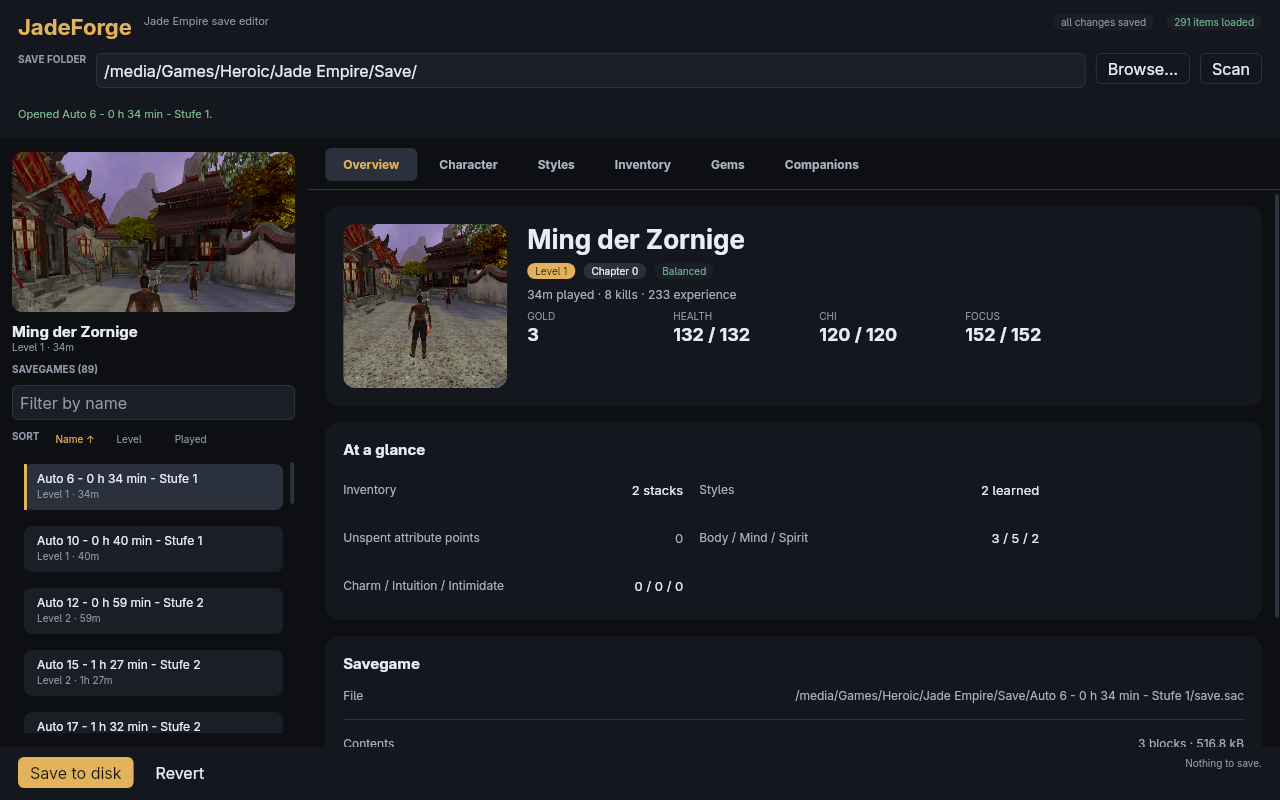
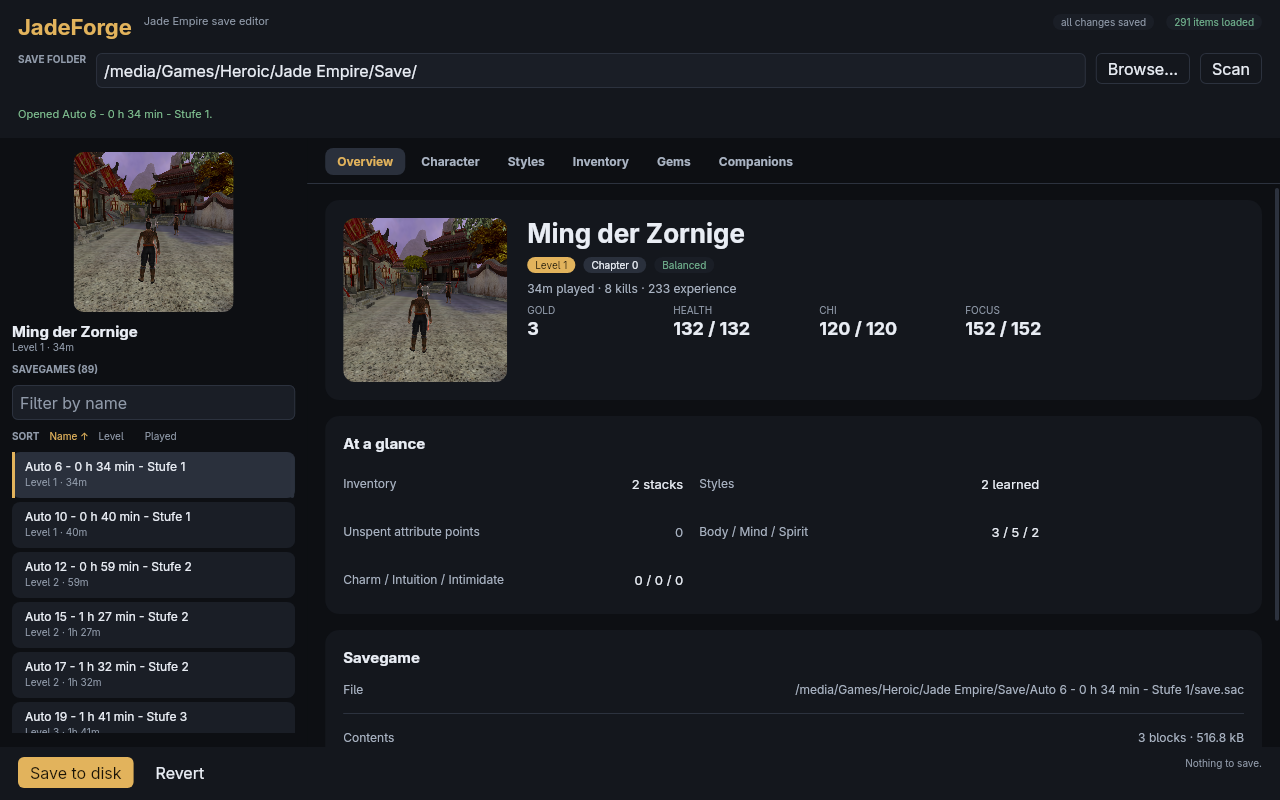
fix(ui): keep list rows compact and save previews fixed
- give the expanding name block flex width so item/style controls stay in the row
- use a fixed 160x160, aspect-preserving save preview instead of a cropped/resizing image
- add a compact style-row regression test and refresh screenshots/docs

diff --git a/crates/jadeforge-gui/tests/ui.rs b/crates/jadeforge-gui/tests/ui.rs
@@ -308,10 +308,12 @@ fn opening_a_save_does_not_move_the_sidebar() {
         "the savegame row text moved by {} px when it was selected",
         row_after - row_before
     );
+    let image_area = image.layout().area;
     assert!(
-        image.layout().area.size.height <= 160.5,
-        "the screenshot is {} px tall and outgrew its slot",
-        image.layout().area.size.height
+        image_area.size.height <= 160.5 && (image_area.size.width - 160.0).abs() < 0.5,
+        "the screenshot is {}x{} px; it must stay a fixed 160x160 square",
+        image_area.size.width,
+        image_area.size.height
     );
 }
 
@@ -597,6 +599,49 @@ fn every_list_is_browsable_and_labelled_the_same_way() {
         find_label_text(&test, " · #").is_some(),
         "items do not show the category and id subtitle"
     );
+}
+
+fn exact_label_nodes(test: &TestingRunner, wanted: &str) -> Vec<freya_testing::TestingNode> {
+    test.find_many(|node, element| {
+        let label = Label::try_downcast(element)?;
+        (label.text.as_ref() == wanted).then_some(node)
+    })
+}
+
+#[test]
+fn style_rows_stay_compact_and_inside_the_card() {
+    let Some(fixture) = Fixture::create() else {
+        eprintln!("skipping: no savegames found");
+        return;
+    };
+    let mut test = launch_sized(fixture.save_dir.clone(), 1400.0);
+    assert!(click_text(&mut test, "Styles"));
+
+    let removes = exact_label_nodes(&test, "Remove");
+    if removes.len() < 2 {
+        eprintln!("skipping: fewer than two learned styles");
+        return;
+    }
+    let mut ys: Vec<f32> = removes
+        .iter()
+        .map(|node| node.layout().area.origin.y)
+        .collect();
+    ys.sort_by(f32::total_cmp);
+    for pair in ys.windows(2) {
+        assert!(
+            pair[1] - pair[0] < 80.0,
+            "style rows are {} px apart; the name block consumed the row",
+            pair[1] - pair[0]
+        );
+    }
+    for node in &removes {
+        let area = node.layout().area;
+        assert!(
+            area.origin.x + area.size.width < 1270.0,
+            "the row controls run off the card at x={}",
+            area.origin.x
+        );
+    }
 }
 
 fn count_labels(test: &TestingRunner) -> usize {

diff --git a/crates/jadeforge-gui/src/app/shell.rs b/crates/jadeforge-gui/src/app/shell.rs
@@ -168,21 +168,24 @@ pub(super) fn preview_slot(preview: Option<ImageHandle>, selected: bool) -> Elem
     let frame = rect()
         .width(Size::fill())
         .height(Size::px(PREVIEW_HEIGHT))
-        .center()
-        .background(theme::SURFACE)
-        .corner_radius(10.);
+        .center();
     match preview {
-        Some(handle) => frame.child(
-            image(handle)
-                .width(Size::fill())
-                .height(Size::px(PREVIEW_HEIGHT))
-                .corner_radius(10.)
-                .sampling_mode(SamplingMode::Bilinear)
-                .aspect_ratio(AspectRatio::Max),
-        ),
-        None => frame.child(label().text(message).font_size(10.).color(theme::DIM)),
+        Some(handle) => frame
+            .child(
+                image(handle)
+                    .width(Size::px(PREVIEW_HEIGHT))
+                    .height(Size::px(PREVIEW_HEIGHT))
+                    .corner_radius(10.)
+                    .sampling_mode(SamplingMode::Bilinear)
+                    .aspect_ratio(AspectRatio::Min),
+            )
+            .into_element(),
+        None => frame
+            .background(theme::SURFACE)
+            .corner_radius(10.)
+            .child(label().text(message).font_size(10.).color(theme::DIM))
+            .into_element(),
     }
-    .into_element()
 }
 
 #[allow(clippy::large_types_passed_by_value, clippy::needless_pass_by_value)] // `Form` is a bundle of cheap `Copy` handles

diff --git a/crates/jadeforge-gui/src/views/overview.rs b/crates/jadeforge-gui/src/views/overview.rs
@@ -64,6 +64,8 @@ pub fn view(
                 .height(Size::px(164.))
                 .corner_radius(12.)
                 .sampling_mode(SamplingMode::Bilinear)
+                .aspect_ratio(AspectRatio::Min)
+                .image_cover(ImageCover::Center)
                 .into_element()
         },
     );

diff --git a/crates/jadeforge-gui/src/widgets.rs b/crates/jadeforge-gui/src/widgets.rs
@@ -207,7 +207,7 @@ where
         rect()
             .vertical()
             .spacing(1.)
-            .width(Size::fill())
+            .width(Size::flex(1.0))
             .padding(Gaps::new_symmetric(6., 6.))
             .corner_radius(4.)
             .border(if focused {

diff --git a/docs/COVERAGE.md b/docs/COVERAGE.md
@@ -28,10 +28,10 @@ env -u JADEFORGE_SAVE_DIR -u JADEFORGE_GAME_DIR -u JADEFORGE_CONFIG_DIR \
 
 | metric | full corpus | no game data |
 | --- | --- | --- |
-| lines | **15 835 / 17 777 = 89.1 %** | **15 865 / 17 777 = 89.2 %** |
-| functions | **940 / 1 213 = 77.5 %** | **945 / 1 213 = 77.9 %** |
-| regions | **9 607 / 10 724 = 89.6 %** | **9 625 / 10 724 = 89.8 %** |
-| tests run | 280 | 280 |
+| lines | **15 849 / 17 782 = 89.1 %** | **15 871 / 17 782 = 89.3 %** |
+| functions | **942 / 1 213 = 77.7 %** | **945 / 1 213 = 77.9 %** |
+| regions | **9 620 / 10 729 = 89.7 %** | **9 632 / 10 729 = 89.8 %** |
+| tests run | 281 | 281 |
 
 Several crates keep unit tests inside `src/`, so those test lines are part of
 the totals above. The previous non-test-only table was measured with a smaller
@@ -51,7 +51,7 @@ Notes:
 - Branch coverage is not collected; the report is line/function/region based.
 - No test is `#[ignore]`d. Real-corpus tests return early without
   `JADEFORGE_SAVE_DIR`, while the GUI suite builds its synthetic fixture and
-  still runs all 29 headless tests. `nextest` reports 280 run and 0 skipped in
+  still runs all 30 headless tests. `nextest` reports 281 run and 0 skipped in
   both modes.
 - GUI numbers are inflated by declarative view code that runs on every render.
   Treat GUI coverage as a regression signal, not as a quality target.
@@ -151,7 +151,7 @@ Notes:
 
 | milestone | full corpus | no game data | core | session | cli | gui | gamedata |
 | --- | --- | --- | --- | --- | --- | --- | --- |
-| now | 89.1 % | 89.2 % | 83.6 % | 92.3 % | 89.8 % | 90.0 % | 95.8 % |
+| now | 89.1 % | 89.3 % | 83.6 % | 92.3 % | 89.8 % | 90.0 % | 95.8 % |
 | phase 1 | **90 %** | **90 %** | 85 % | 93 % | 91 % | 91 % | 96 % |
 | phase 2 | **92 %** | **92 %** | 88 % | 94 % | 93 % | 93 % | 97 % |
 

diff --git a/docs/coverage-audit.md b/docs/coverage-audit.md
@@ -1,8 +1,8 @@
 # Coverage audit — post-P1
 
 > **Historical.** The P0/P1/P2 review remediation superseded these numbers.
-> [docs/COVERAGE.md](COVERAGE.md) records the current baseline (280 tests,
-> 89.1 % lines with the full corpus and 89.2 % without game data).
+> [docs/COVERAGE.md](COVERAGE.md) records the current baseline (281 tests,
+> 89.1 % lines with the full corpus and 89.3 % without game data).
 
 Measured on 2026-11-05 on the working tree (`c121cb8` plus the uncommitted GUI
 changes), Rust 1.99.1, `cargo-llvm-cov 0.9.1`, `cargo-nextest 0.9.151`.

diff --git a/.dsh/skills/release-check/SKILL.md b/.dsh/skills/release-check/SKILL.md
@@ -25,7 +25,7 @@ JADEFORGE_GAME_DIR="/path/to/Jade Empire" \
 JADEFORGE_CONFIG_DIR="$(mktemp -d)" cargo nextest run --workspace
 ```
 
-Expect nextest's `Summary ... 280 tests run: 280 passed, 0 skipped` with a real
+Expect nextest's `Summary ... 281 tests run: 281 passed, 0 skipped` with a real
 corpus (the number grows over time; skips are fine when the game or savegames
 are absent). Nextest captures stdout, so the `round tripped 89 savegames` /
 `rewrote 962 blocks` lines are only printed with `--no-capture` or on failure.
